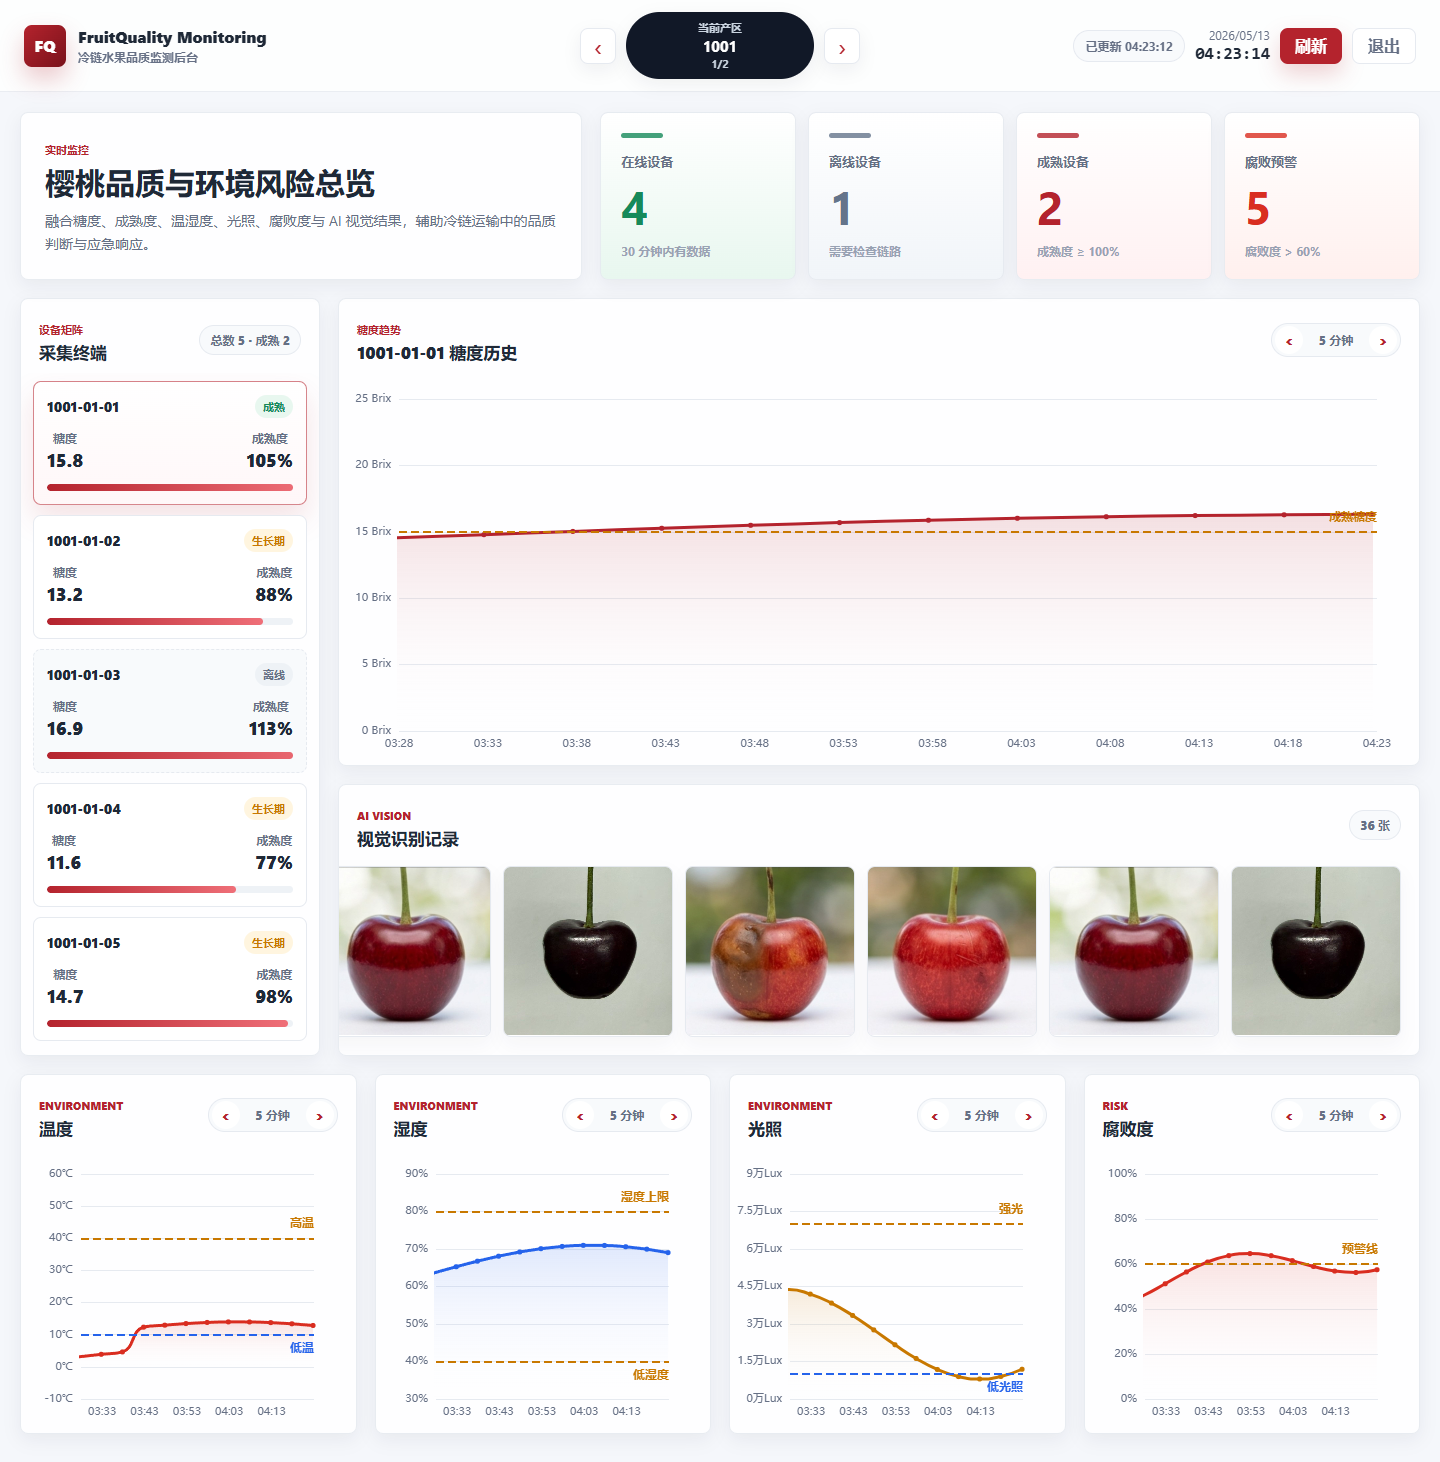
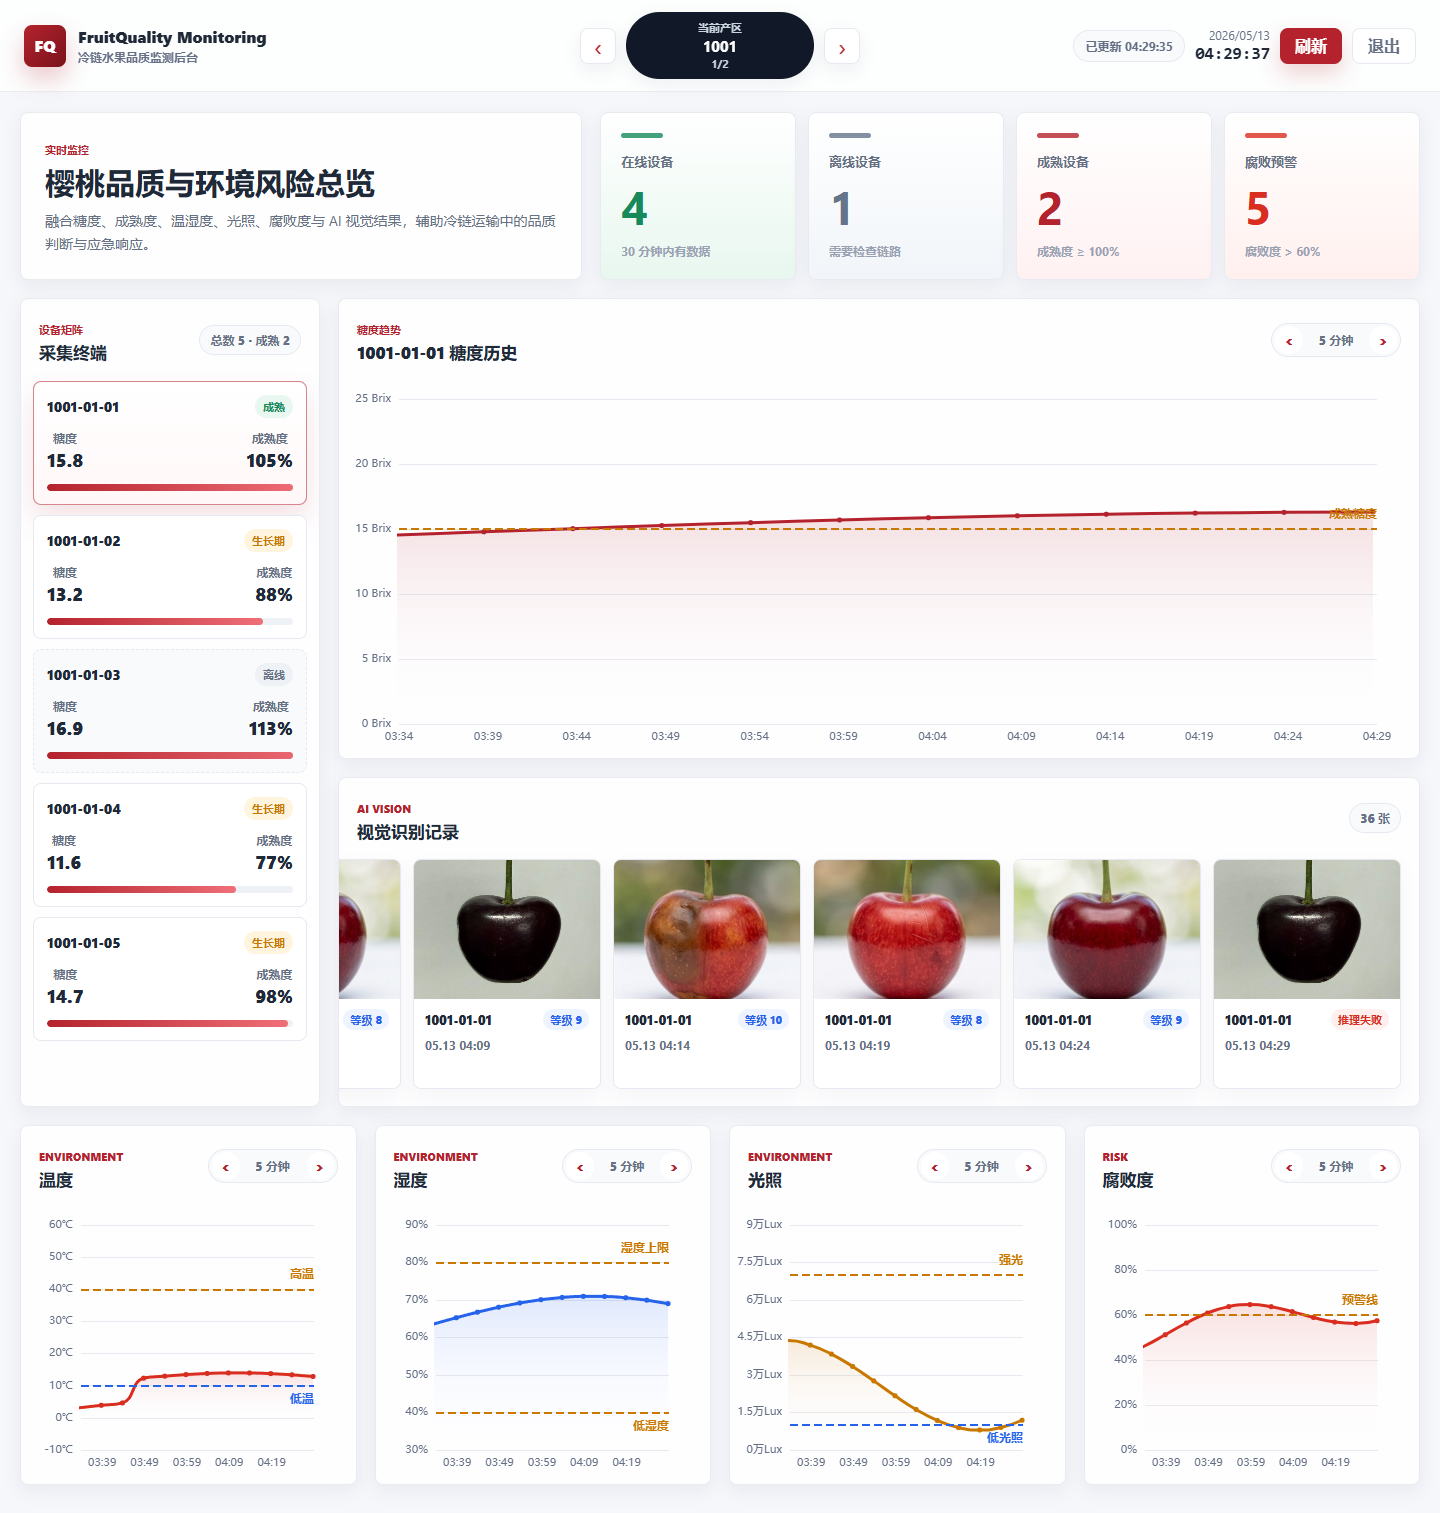
11

diff --git a/FieldMonitoringPlatform/admin/css/dashboard.css b/FieldMonitoringPlatform/admin/css/dashboard.css
@@ -437,7 +437,7 @@ button {
 
 .main-panel {
     display: grid;
-    grid-template-rows: minmax(460px, 1fr) minmax(272px, 0.55fr);
+    grid-template-rows: minmax(460px, 1fr) minmax(330px, 0.62fr);
     gap: 18px;
     min-width: 0;
 }
@@ -475,7 +475,7 @@ button {
     }
 
     .main-panel {
-        grid-template-rows: minmax(540px, 1fr) minmax(300px, 0.5fr);
+        grid-template-rows: minmax(540px, 1fr) minmax(350px, 0.55fr);
         gap: 20px;
     }
 
@@ -523,7 +523,7 @@ button {
 }
 
 .vision-card {
-    min-height: 272px;
+    min-height: 330px;
     overflow: hidden;
     display: flex;
     flex-direction: column;
@@ -534,24 +534,30 @@ button {
     display: flex;
     gap: 12px;
     overflow-x: auto;
+    overflow-y: hidden;
     padding: 8px 18px 18px;
-    min-height: 190px;
+    min-height: 244px;
+    align-items: stretch;
 }
 
 .vision-item {
-    flex: 0 0 170px;
+    flex: 0 0 188px;
     border: 1px solid var(--line);
     border-radius: 8px;
     overflow: hidden;
     background: #fff;
     box-shadow: 0 8px 18px rgba(16, 24, 40, 0.04);
+    display: flex;
+    flex-direction: column;
+    min-height: 230px;
 }
 
 .vision-image-wrap {
     width: 100%;
-    aspect-ratio: 1 / 1;
+    aspect-ratio: 4 / 3;
     background: #f1f5f9;
     overflow: hidden;
+    flex: 0 0 auto;
 }
 
 .vision-image-wrap img {
@@ -568,7 +574,11 @@ button {
 }
 
 .vision-info {
-    padding: 10px;
+    padding: 10px 11px 12px;
+    min-height: 66px;
+    display: flex;
+    flex-direction: column;
+    justify-content: space-between;
 }
 
 .vision-quality {
@@ -787,6 +797,7 @@ button {
     }
 
     .vision-item {
-        flex-basis: 145px;
+        flex-basis: 168px;
+        min-height: 214px;
     }
 }